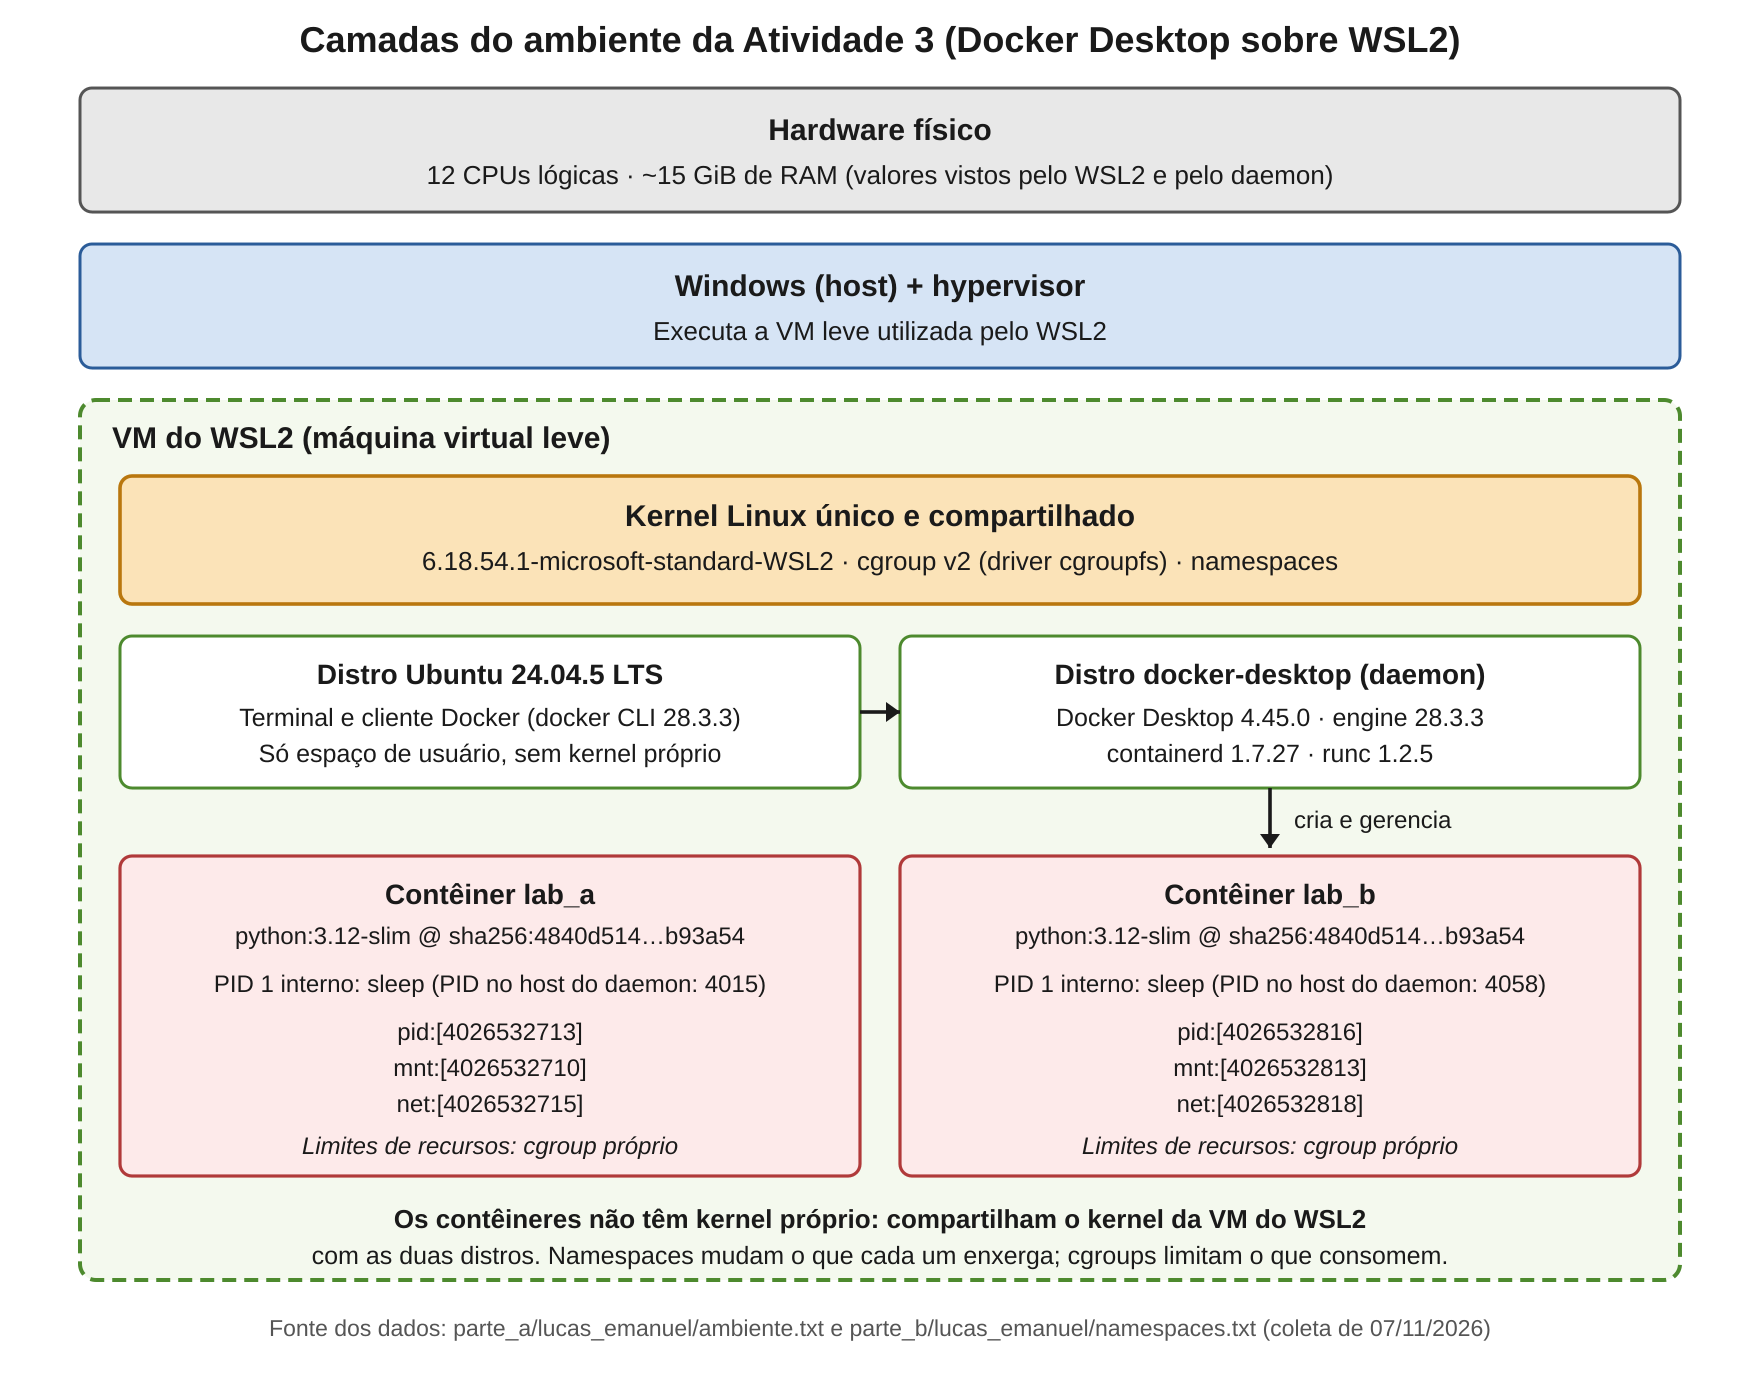
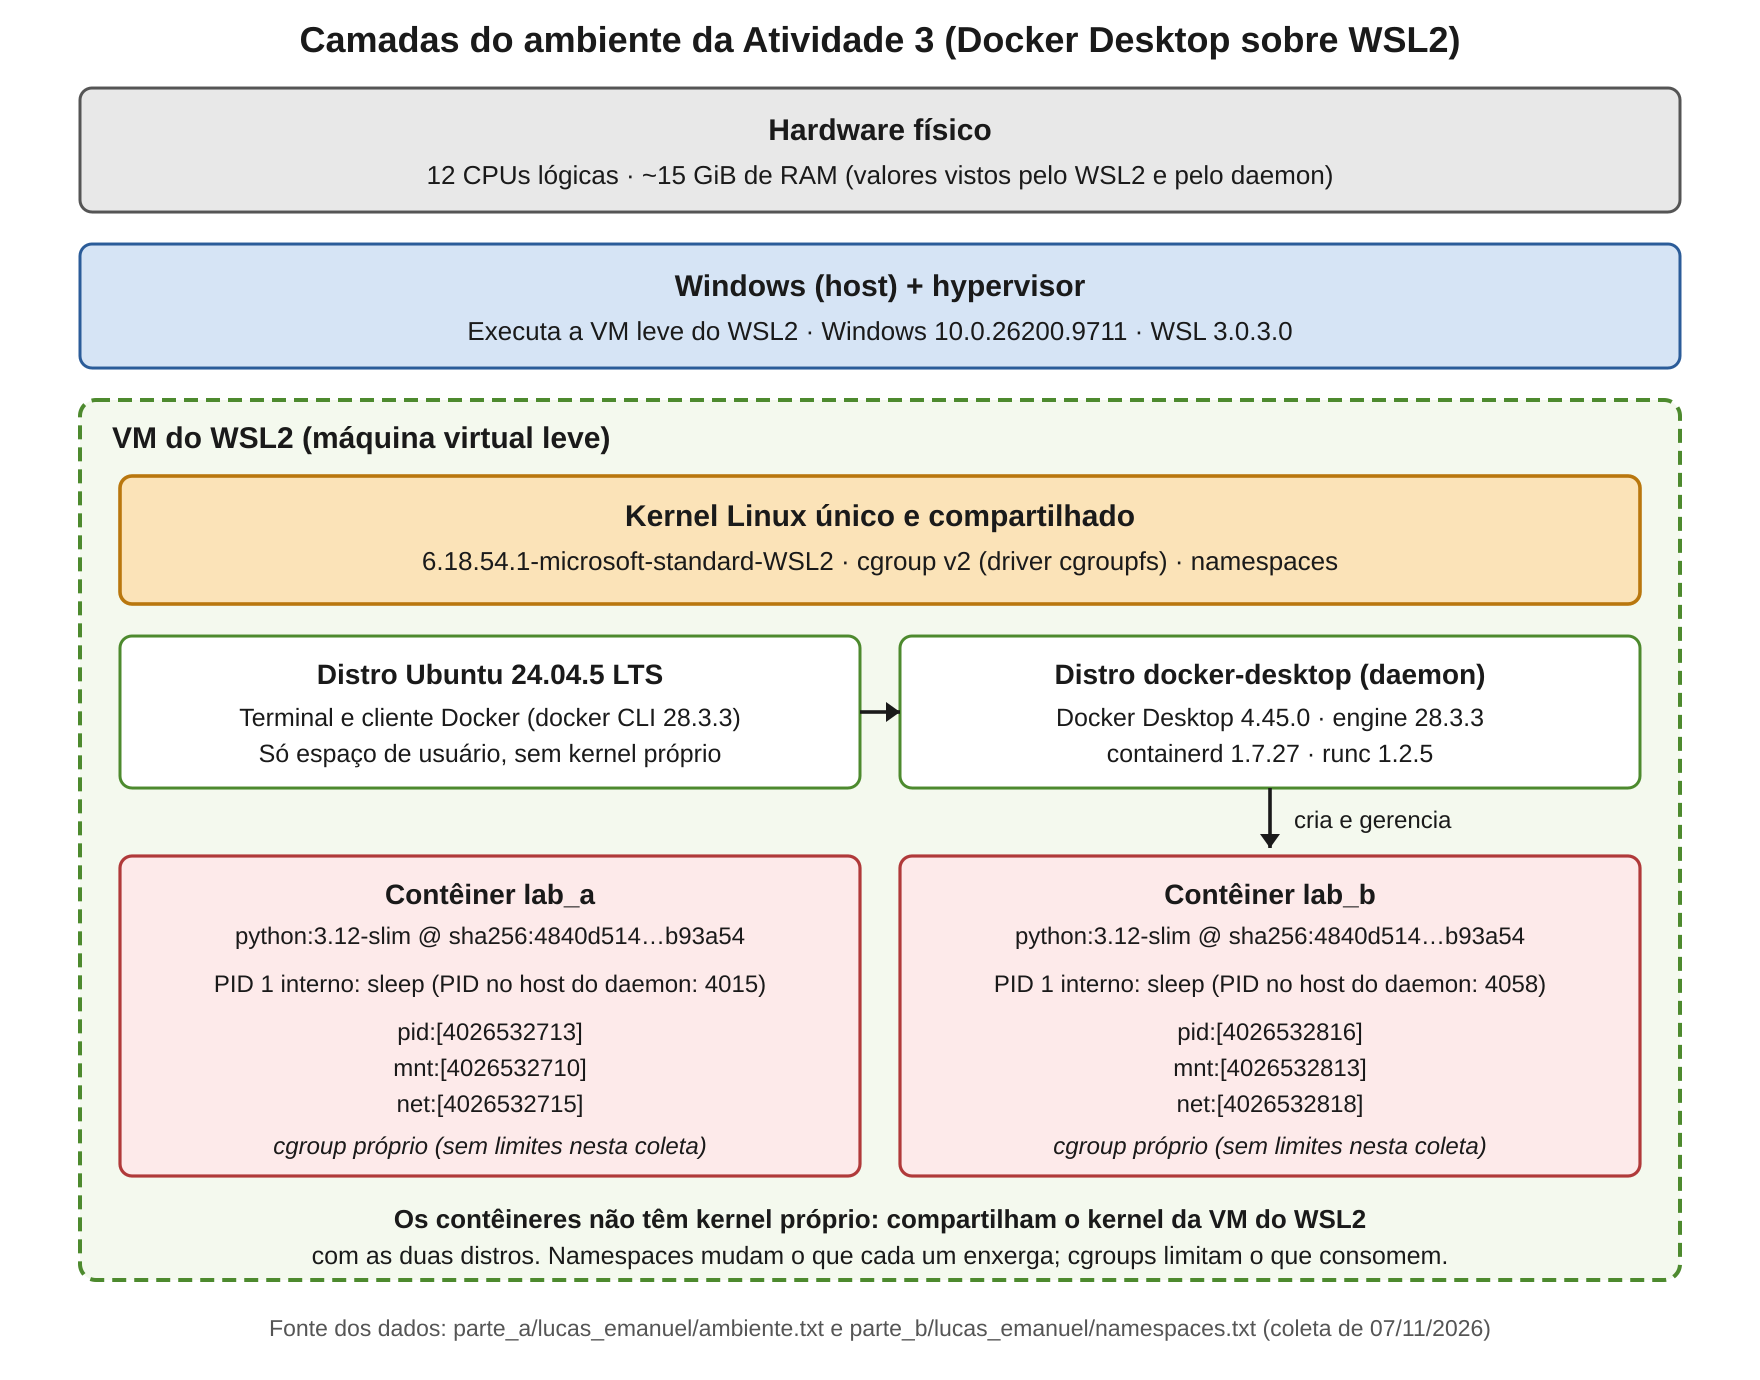
Partes A-D: ajustes finais, READMEs e varredura de dados pessoais

Changed region(s): [[0.2812, 0.2181, 0.7188, 0.2493], [0.5938, 0.8101, 0.8438, 0.8413], [0.1562, 0.8101, 0.4062, 0.8413]]

diff --git a/atividade3/parte_d/lucas_emanuel/README.md b/atividade3/parte_d/lucas_emanuel/README.md
@@ -1,0 +1,46 @@
+# Parte D — Montagem somente leitura e menor privilégio (Lucas Emanuel)
+
+Teste feito em 10/11/2026 com a imagem fixada por digest (`python@sha256:4840d514c583a4d3d8cad3940e68dee6f0f6f3635c12fcd0a3d74c21a5b93a54`). Registro bruto: `readonly.txt`. Diretório sintético: `dados_demo/texto.txt` (conteúdo: `Documento sintetico`).
+
+## Comando
+
+```bash
+mkdir -p dados_demo
+printf '%s\n' 'Documento sintetico' > dados_demo/texto.txt
+
+docker run --rm --network none --user 65534:65534 --cap-drop ALL \
+  --security-opt no-new-privileges:true \
+  -v "$PWD/dados_demo:/dados:ro" "$IMAGEM_LAB" sh -c '...'
+```
+
+Não foi usado o `evidencia_ns_mount.sh` do kit de apoio; o teste seguiu os comandos do enunciado.
+
+Dentro do contêiner o teste executa `id`, `cat /dados/texto.txt`, `touch /dados/novo.txt`, lê a linha de `/dados` em `/proc/self/mountinfo`, `CapEff` e `NoNewPrivs` de `/proc/self/status`, e faz um controle com `touch /tmp/ok`. Foi montado apenas `dados_demo`: não foram montados `/`, o diretório home, o socket do Docker nem diretórios sigilosos. Não foi usado `--privileged`, e nenhum mecanismo de segurança do sistema foi desativado.
+
+## Resultado
+
+| Verificação                   | Resultado observado                                                      | Leitura                                                                                                     |
+| ----------------------------- | ------------------------------------------------------------------------ | ----------------------------------------------------------------------------------------------------------- |
+| Identidade                    | `uid=65534(nobody) gid=65534(nogroup)`                                   | Processo não root.                                                                                          |
+| Leitura de `/dados/texto.txt` | `Documento sintetico`                                                    | Leitura permitida.                                                                                          |
+| Escrita em `/dados`           | `touch: cannot touch '/dados/novo.txt': Read-only file system`, `exit=1` | Negação registrada. A mensagem é de sistema de arquivos somente leitura (EROFS), e não de permissão negada. |
+| Montagem de `/dados`          | opções `ro,noatime` em `/proc/self/mountinfo`                            | A restrição está na montagem.                                                                               |
+| `CapEff`                      | `0000000000000000`                                                       | Nenhuma capability efetiva (`--cap-drop ALL`).                                                              |
+| `NoNewPrivs`                  | `1`                                                                      | O processo não pode ganhar privilégios (`no-new-privileges`).                                               |
+| Controle: escrita em `/tmp`   | `ok em /tmp`                                                             | O contêiner não está sem escrita em geral; a negação é específica da montagem `ro`.                         |
+| No host, `ls dados_demo`      | só `texto.txt`                                                           | Nenhum arquivo foi criado.                                                                                  |
+
+## Como distinguir os mecanismos
+
+- **Mount namespace:** dá ao contêiner a sua própria tabela de montagens; `/dados` existe só dentro dela. Isso define o que o contêiner enxerga, e não se pode escrever ou não.
+- **Montagem somente leitura (`ro`):** é uma opção da montagem. O kernel recusa escrita por qualquer usuário nessa montagem com EROFS.
+- **Permissões e identidade:** no `ls -l`, o arquivo do host aparece como `-rwxrwxrwx` (diretório do Windows exposto ao WSL via drvfs/9p), então as permissões **permitiriam** a escrita. A negação, portanto, vem da montagem `ro`, e não de permissão de arquivo. Um erro de permissão teria a mensagem `Permission denied`.
+- **Capabilities e `no-new-privileges`:** reduzem o que o processo pode fazer mesmo com bugs ou binários setuid. Sem capabilities, o processo não tem, por exemplo, `CAP_SYS_ADMIN` para remontar `/dados` como leitura e escrita.
+
+## Limites da evidência
+
+A negação de escrita não prova isolamento absoluto. O diretório continua gravável a partir do host ou de outro contêiner que o monte sem `:ro`; o kernel é compartilhado, e uma falha no kernel ou no runtime poderia contornar essas barreiras. Não coletamos o perfil de AppArmor/SELinux do contêiner e não alteramos nenhuma política.
+
+## Nota sobre privacidade do registro
+
+A linha de montagem em `readonly.txt` continha o caminho do usuário do Windows; essa parte foi substituída por `<CAMINHO_WINDOWS>` antes da publicação. No final do arquivo foi acrescentada, depois do teste, a listagem de `dados_demo` no host (`ls -l`), que mostra apenas `texto.txt`.

diff --git a/atividade3/parte_b/lucas_emanuel/README.md b/atividade3/parte_b/lucas_emanuel/README.md
@@ -1,0 +1,47 @@
+# Parte B — Evidências de namespaces (Lucas Emanuel)
+
+Dois contêineres independentes da mesma imagem (`python@sha256:4840d514c583a4d3d8cad3940e68dee6f0f6f3635c12fcd0a3d74c21a5b93a54`), com nomes próprios e `--network none`, ativos durante a coleta (07/11/2026). Registro bruto: `namespaces.txt`.
+
+## Criação e coleta
+
+```bash
+docker run -d --name lab_a --network none "$IMAGEM_LAB" sleep 600
+docker run -d --name lab_b --network none "$IMAGEM_LAB" sleep 600
+for C in lab_a lab_b; do
+  docker inspect --format 'PID_host={{.State.Pid}}' $C
+  docker exec $C sh -c 'cat /proc/1/comm'
+  docker exec $C readlink /proc/1/ns/pid
+  docker exec $C readlink /proc/1/ns/mnt
+  docker exec $C readlink /proc/1/ns/net
+done
+```
+
+O registro bruto (namespaces.txt) foi gerado por um laço equivalente a este, que acrescentou rótulos (PID_host=, ns_pid= etc.) a cada saída.
+
+O `sleep 600` apenas mantém cada contêiner vivo durante a coleta. Não foi usado o `evidencia_ns_mount.sh` do kit de apoio (o professor orientou a desconsiderar o kit); a coleta seguiu os comandos do enunciado.
+
+## Tabela comparativa
+
+| Recurso                              | Handle em lab_a    | Handle em lab_b    | Iguais ou diferentes | Interpretação                                                                                                                                             |
+| ------------------------------------ | ------------------ | ------------------ | -------------------- | --------------------------------------------------------------------------------------------------------------------------------------------------------- |
+| PID namespace (`/proc/1/ns/pid`)     | `pid:[4026532713]` | `pid:[4026532816]` | diferentes           | Cada contêiner tem sua própria numeração de PIDs; o primeiro processo de cada um é o PID 1 do seu namespace.                                              |
+| Mount namespace (`/proc/1/ns/mnt`)   | `mnt:[4026532710]` | `mnt:[4026532813]` | diferentes           | Cada contêiner enxerga sua própria árvore de montagens (o sistema de arquivos da imagem).                                                                 |
+| Network namespace (`/proc/1/ns/net`) | `net:[4026532715]` | `net:[4026532818]` | diferentes           | Pilhas de rede separadas. Os contêineres foram criados com `--network none`; não coletamos `ip addr`, então não afirmamos aqui o conteúdo das interfaces. |
+
+Dados complementares:
+
+|                                          | lab_a   | lab_b   |
+| ---------------------------------------- | ------- | ------- |
+| PID no host do daemon (`docker inspect`) | 4015    | 4058    |
+| Processo PID 1 interno (`/proc/1/comm`)  | `sleep` | `sleep` |
+
+## Como ambos têm PID 1 sem serem o mesmo processo
+
+A numeração de PIDs é relativa ao PID namespace. Cada contêiner tem o seu, e nele o primeiro processo criado recebe o número 1. Os dois executam `sleep`, por isso ambos mostram PID 1 = `sleep`, mas são processos distintos: para o host do daemon eles aparecem com PIDs diferentes (4015 e 4058). Os identificadores `pid:[...]` diferentes confirmam que os namespaces são distintos.
+
+## Observações e limites da evidência
+
+- O PID do `docker inspect` pertence ao host do **daemon** (a distro `docker-desktop` dentro da VM do WSL2), e não ao `/proc` do terminal Ubuntu.
+- Handles diferentes mostram que os processos estão em namespaces diferentes. Isso não prova isolamento absoluto: o kernel é compartilhado entre os contêineres e as distros (mesmo kernel `6.18.54.1-microsoft-standard-WSL2` no Ubuntu e no daemon).
+- Namespaces alteram o que cada contêiner **enxerga**; não limitam o que consomem (isso é papel dos cgroups, Parte C) nem definem identidade ou permissões de acesso (usuário, capabilities e política de acesso, Parte D).
+- Os contêineres desta parte foram criados sem limites de recursos; os limites foram configurados e confirmados na Parte C.

diff --git a/atividade3/parte_c/lucas_emanuel/README.md b/atividade3/parte_c/lucas_emanuel/README.md
@@ -33,6 +33,10 @@ python3 resumo.py          # requer matplotlib (sudo apt install python3-matplot
 
 O script recusa rodar se `resultados_brutos.csv` ou `brutos/` já existirem (preserva tentativas). Para limpar uma execução própria, renomeie ou mova esses itens.
 
+## Escolha da quantidade de trabalho (N)
+
+O valor inicial sugerido no roteiro era N = 20.000.000. Na tentativa anterior, com N = 20M, a condição C2 durava ~1 s e a variação relativa entre repetições era alta (~30%); aumentamos para N = 100.000.000 (C1 ≈ 14,6 s, abaixo do limite de 60 s), validamos esse valor no ensaio, congelamos antes das seis execuções oficiais e não o alteramos depois. A tentativa com N = 20M foi preservada na pasta de Daniel Farani.
+
 ## Parâmetros de cada contêiner
 
 `--network none --cpus <0.5|1.0> --memory 256m --memory-swap 256m --pids-limit 64`, carga montada em `/carga_cpu.py:ro`, `timeout 90` no host, `ITERACOES=100000000`. Limites confirmados dentro do contêiner em todas as execuções: `cpu.max` = `50000 100000` (C1) e `100000 100000` (C2); `memory.max` = 268435456; `memory.swap.max` = 0; `pids.max` = 64.
